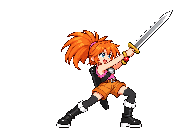
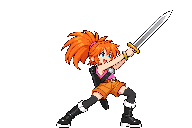
art(player): conceal sword pommels in attack keys

diff --git a/tools/art/build_player_attack_key_review.py b/tools/art/build_player_attack_key_review.py
@@ -9,9 +9,9 @@ from build_player_movement_atlas import eye_center, indexed
 ROOT = Path(__file__).resolve().parents[2]
 OUT = ROOT / 'art/previews/phase_b/2026-10-25_attack_keys'
 SOURCES = {
-    'attack_1': ROOT / 'art/concept/2026-10-25_aclaire_attack_1_key_source_v2.png',
-    'attack_2': ROOT / 'art/concept/2026-10-25_aclaire_attack_2_key_source.png',
-    'attack_3': ROOT / 'art/concept/2026-10-25_aclaire_attack_3_key_source.png',
+    'attack_1': ROOT / 'art/concept/2026-10-25_aclaire_attack_1_key_source_v3.png',
+    'attack_2': ROOT / 'art/concept/2026-10-25_aclaire_attack_2_key_source_v2.png',
+    'attack_3': ROOT / 'art/concept/2026-10-25_aclaire_attack_3_key_source_v2.png',
 }
 FRAME = (192, 128)
 EYE_X = 105  # Same +9 physical px offset from bottom-center as approved idle.

diff --git a/art/reports/2026-10-25_aclaire_attack_key_poses.md b/art/reports/2026-10-25_aclaire_attack_key_poses.md
@@ -8,17 +8,17 @@ Three key poses are ready for Pinz's review. They are concept frames only; the p
 - `art/previews/phase_b/2026-10-25_attack_keys/2026-10-25_aclaire_attack_keys_x2.png`: enlarged frame review.
 - `art/previews/phase_b/2026-10-25_attack_keys/attack_{1,2,3}_key.png`: three 192×128 physical frames, density 2, bottom-center origin.
 - `art/previews/phase_b/2026-10-25_attack_keys/2026-10-25_aclaire_attack_key_metrics.json`: frame bounds, eye alignment, sole row and sword reach.
-- `art/concept/2026-10-25_aclaire_attack_{1,2,3}_key_source.png` (attack 1 selects `_v2`): transparent built-in imagegen sources, not loaded by the game.
+- `art/concept/2026-10-25_aclaire_attack_{1,2,3}_key_source.png` and versioned revisions: transparent built-in imagegen sources, not loaded by the game. The selected revisions are attack 1 `_v3`, attack 2 `_v2`, and attack 3 `_v2`.
 
 ## Pose direction
 
 | Pose | Peak action | Sword reach from body center | Frame |
 | --- | --- | ---: | --- |
-| `attack_1` | forward horizontal slash | 39.5 logical px | 192×128 |
+| `attack_1` | forward horizontal slash | 40.0 logical px | 192×128 |
 | `attack_2` | diagonal rising slash | 38.5 logical px | 192×128 |
-| `attack_3` | heavy downward ground contact | 36.5 logical px | 192×128 |
+| `attack_3` | heavy downward ground contact | 36.0 logical px | 192×128 |
 
-All three frames have binary alpha, colors mapped to the approved V4 palette (183, 184 and 183 opaque colors), and a sole on row 127. The eye is near frame x=105, matching approved idle's +9 physical px eye offset from the bottom-center pivot. The sheath stays on the back while the sword is drawn. After Pinz noted that `attack_3` read taller, its whole pose was reduced uniformly by 10% and re-anchored to the same sole row. Its top opaque row is now 27, close to `attack_1` row 25; `attack_2` reaches higher because its sword points upward.
+All three frames have binary alpha, colors mapped to the approved V4 palette (201, 184 and 191 opaque colors), and a sole on row 127. The eye is near frame x=105, matching approved idle's +9 physical px eye offset from the bottom-center pivot. The sheath stays on the back while the sword is drawn. After Pinz noted that `attack_3` read taller, its whole pose was reduced uniformly by 10% and re-anchored to the same sole row. Its top opaque row is now 26, close to `attack_1` row 25; `attack_2` reaches higher because its sword points upward. Pinz then approved the poses conditional on concealing the red pommel ball that protruded beyond the grip; three separate built-in imagegen edits removed it without changing the pose direction.
 
 ## Built-in imagegen prompt set
 
@@ -58,4 +58,26 @@ Inputs: approved `idle_000.png`, initial `attack_1` and selected `attack_2` sour
 
 ## Review gate
 
-Pinz should approve or revise the three key poses before the full `attack_1`–`attack_3` animations are drawn. Motion timing, intermediate frames, FX and runtime hit registration are outside this key-pose review.
+Pinz approved the three key poses after the `attack_3` height correction, conditional on hiding the red grip pommel. The correction is now applied to all three poses. Motion timing, intermediate frames, FX and runtime hit registration are outside this key-pose review.
+
+## Final grip correction prompts
+
+Each selected source was edited separately with built-in imagegen. The original pose was the edit target in each case.
+
+### attack_1
+
+```text
+Use case: precise-object-edit. Edit target: this Aclaire V4 horizontal sword attack key pose. Make exactly ONE tiny change: conceal the bright red round ball at the rear of the sword grip where it protrudes past her hands. The short rear end of the hilt should terminate cleanly at or behind the nearest fist; no visible red circular pommel next to the hands. Preserve every other character pixel impression: identical face and head size, hair, expression, costume, feet, both hands and arms, sword blade length, straight sword angle, empty black back scabbard, pose, framing, pixel-art shading and transparent background. Do not change red/orange hair or any costume accents. No new effects or objects.
+```
+
+### attack_2
+
+```text
+Use case: precise-object-edit. Edit target: this Aclaire V4 rising diagonal sword attack key pose. Make exactly ONE tiny change: hide the bright red round ball protruding at the rear of the sword grip below and behind her raised fists. The hilt should end cleanly beneath the gripping hand with no visible red orb. Preserve the full character, face, eye and head scale, orange hair, costume, exact raised-arm pose, leg position, sword angle and length, empty black back scabbard, crisp pixel art, framing, and transparent background. Keep all other colors and pixels visually unchanged. Do not remove the gold wrist bracelet, sword guard, hair tie, or belt. No new objects, effects, background, blur or antialias.
+```
+
+### attack_3
+
+```text
+Use case: precise-object-edit. Edit target: this Aclaire V4 downward finisher key pose. Make exactly ONE tiny change: hide the bright red round ball protruding near the rear of the sword grip beside her lower fist. Her grip should read as two hands holding a single straight sword, with the hilt end concealed by the hand and no visible red circular knob. Preserve the exact face, head and body proportions, orange ponytail, pink outfit, empty black sheath, lowered sword angle and tip, all boot positions, stance, pixel-art style, framing and genuine transparent background. Do not remove the gold wrist bracelets or gold sword guard. No changes to hair or clothing, no extra effects, ground, blur, antialias or additional objects.
+```
